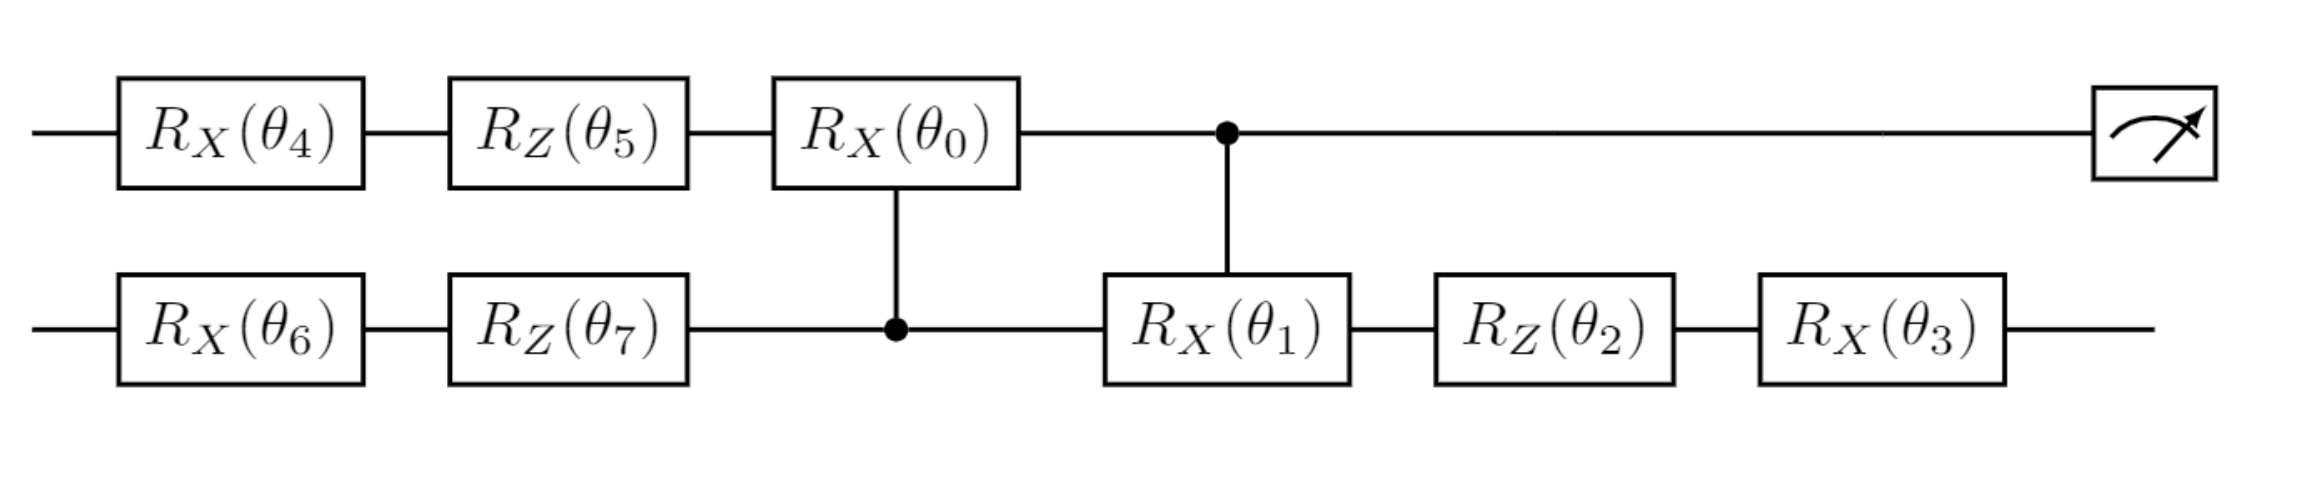
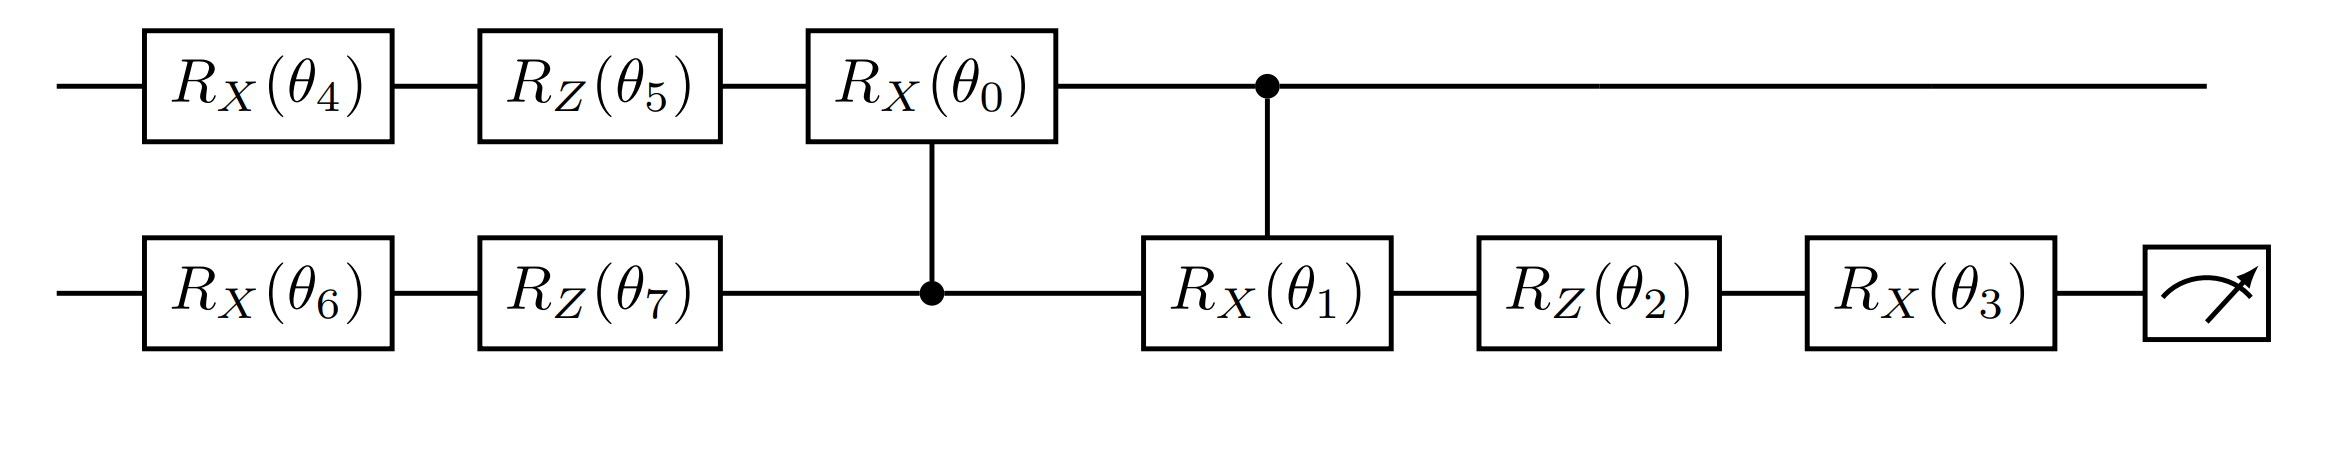
Fixing issue

diff --git a/articles/user-guide/libraries/machine-learning/design.md b/articles/user-guide/libraries/machine-learning/design.md
@@ -43,6 +43,10 @@ What we are defining here is a function that returns an array of `ControlledRota
 
  ![Circuit model example](~/media/circuit_model_1.PNG)
 
+Note that by default the operations of the Quantum Machine Learning library
+measure the last qubit of the register to estimate the classification
+probabilities. You should keep in mind this fact when designing your circuit.
+
 ## Use the library functions to write layers of gates
 
 Suppose we have a dataset with 784 features per instance, e.g. images of 28×28 pixels like the MNIST dataset. In this case, the width of the circuit becomes large enough so that writing by hand each individual gate becomes a possible but impractical task. This is why the Quantum Machine Learning library provides a set of tools to automatically generate layers of parametrized rotations. For instance, the function [`LocalRotationsLayer`](xref:microsoft.quantum.machinelearning.localrotationslayer) returns an array of uncontrolled single-qubit rotations along a given axis, with one rotation for each qubit in the register, each parametrized by a different model parameter. For example, `LocalRotationsLayer(4, X)` returns the following set of gates:
